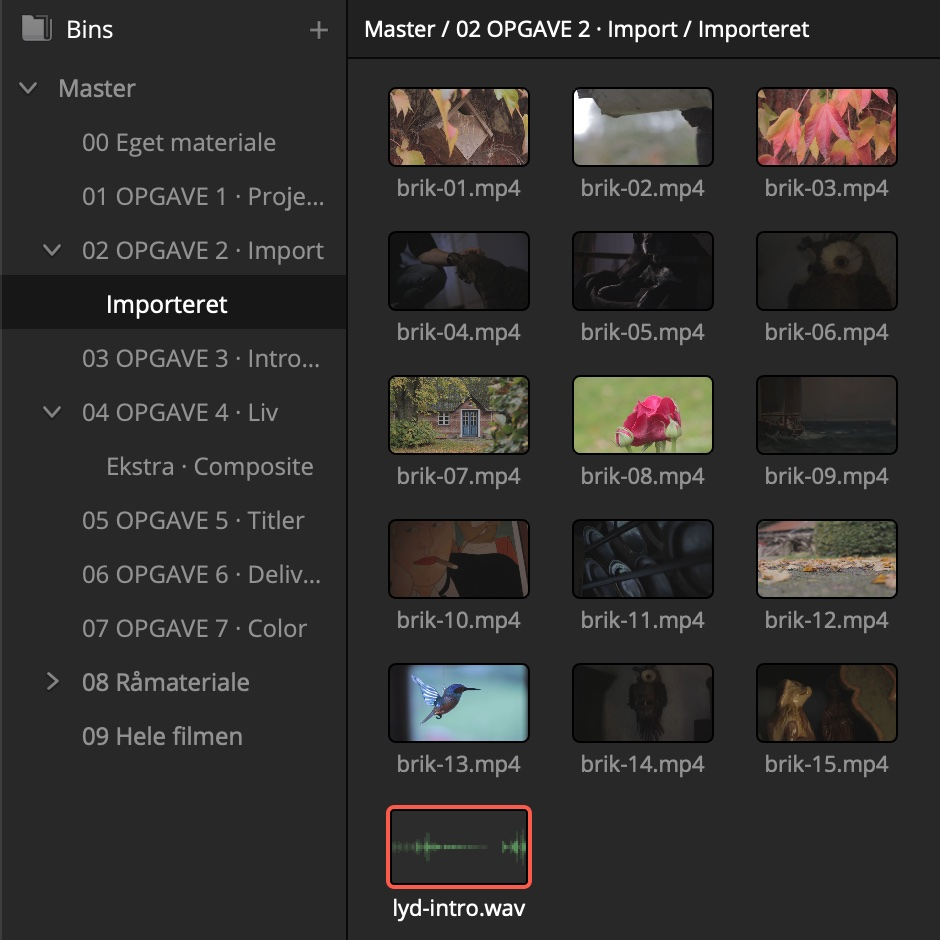
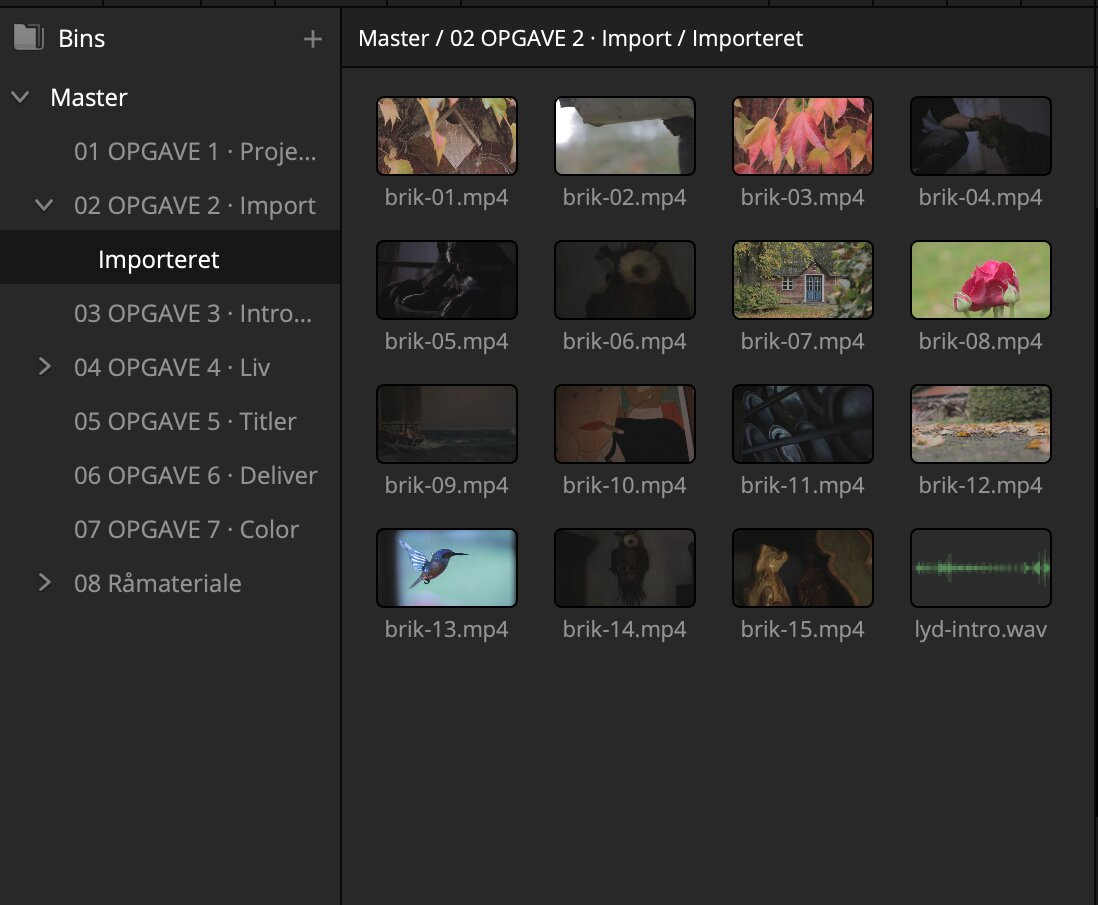
Link til kursuspakken, hele filmens timeline, nyt Media Pool-billede

diff --git a/opgave-2-import.html b/opgave-2-import.html
@@ -152,7 +152,7 @@
         <div class="shot__frame">
           <img src="assets/o2-4-importeret.jpg"
                alt="Mappen Importeret med de 15 klip brik-01 til brik-15 og lydfilen lyd-intro.wav."
-               width="940" height="940" loading="lazy">
+               width="1098" height="905" loading="lazy">
         </div>
       </figure>
     </div>
